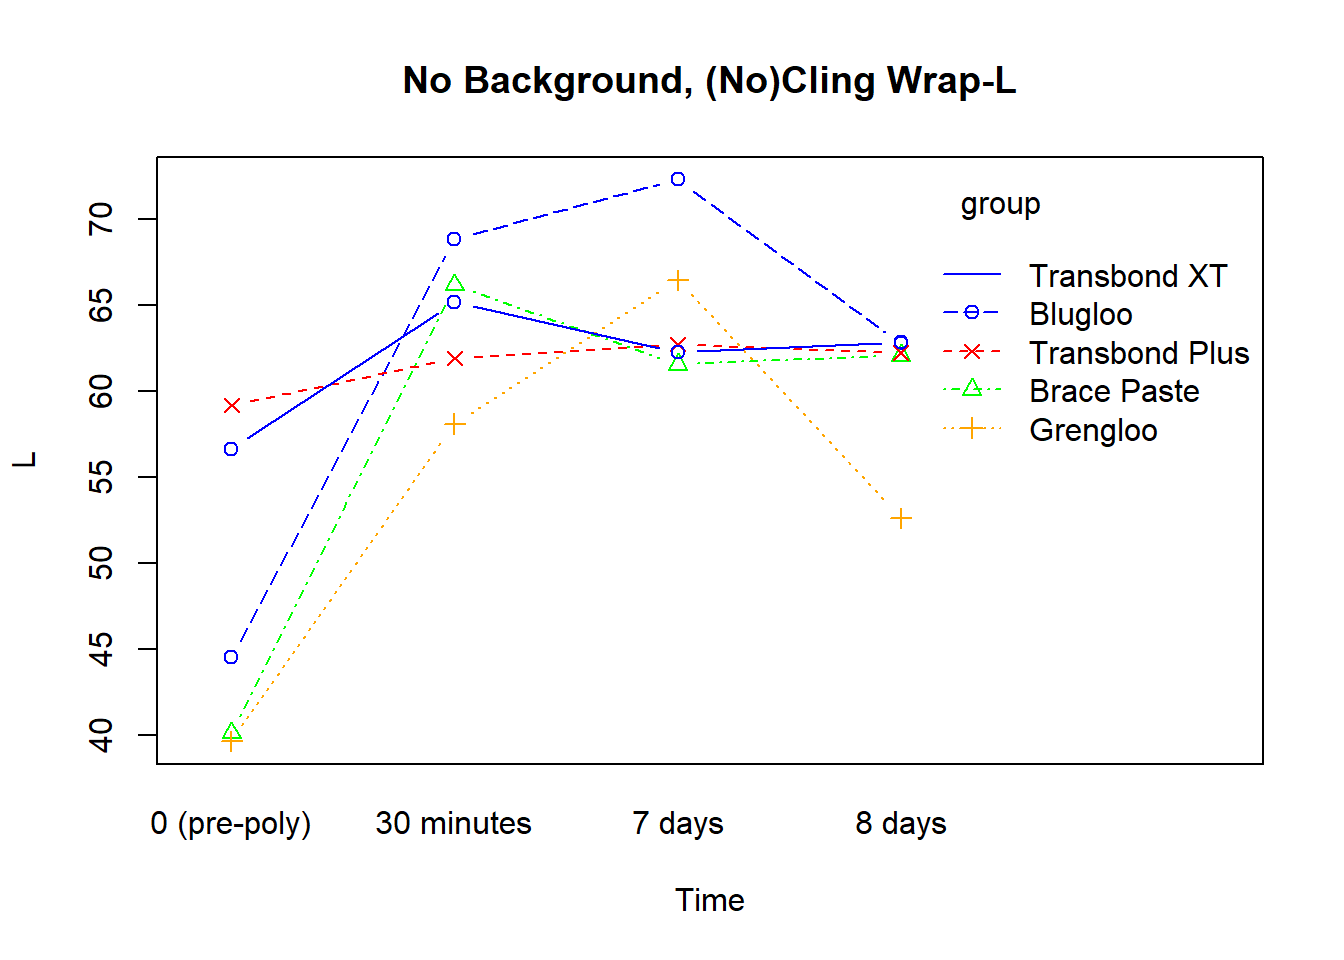
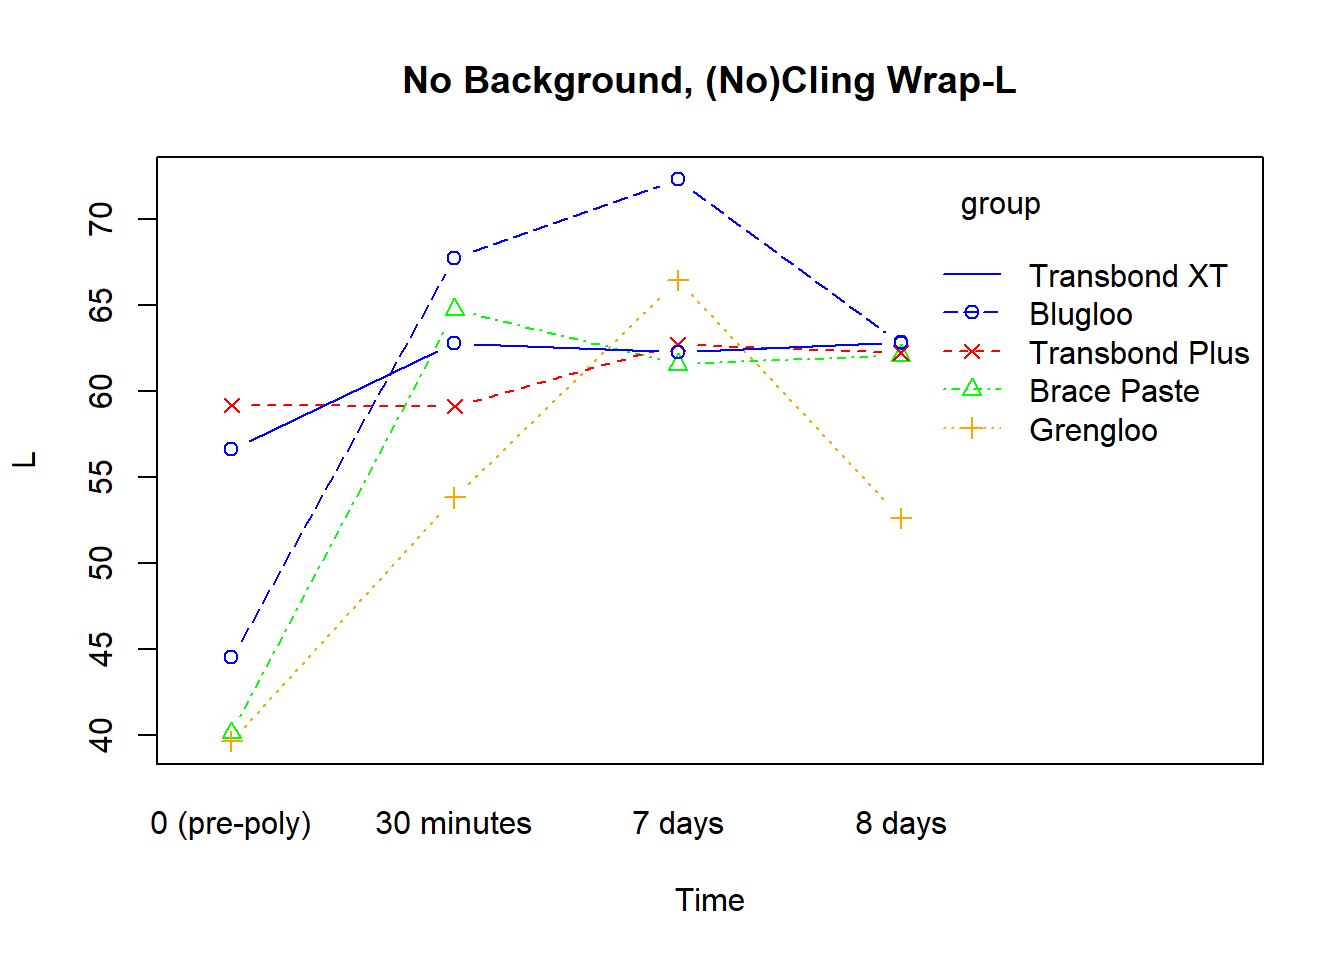
5/3/2022

diff --git a/docs/2022_Apr2.html b/docs/2022_Apr2.html
@@ -472,16 +472,16 @@ This reproducible <a href="https://rmarkdown.rstudio.com">R Markdown</a> analysi
 <div class="panel panel-default">
 <div class="panel-heading">
 <p class="panel-title">
-<a data-toggle="collapse" data-parent="#workflowr-checks" href="#strongRepositoryversionstrongahrefhttpsgithubcomhan16Collaborationstree8d103ce08cca9e85d16442d0a961b673593beb46targetblank8d103cea"> <span class="glyphicon glyphicon-ok text-success" aria-hidden="true"></span> <strong>Repository version:</strong> <a href="https://github.com/han16/Collaborations/tree/8d103ce08cca9e85d16442d0a961b673593beb46" target="_blank">8d103ce</a> </a>
+<a data-toggle="collapse" data-parent="#workflowr-checks" href="#strongRepositoryversionstrongahrefhttpsgithubcomhan16Collaborationstree066fdbccde1f22a7cdff719d2c0910a405546a72targetblank066fdbca"> <span class="glyphicon glyphicon-ok text-success" aria-hidden="true"></span> <strong>Repository version:</strong> <a href="https://github.com/han16/Collaborations/tree/066fdbccde1f22a7cdff719d2c0910a405546a72" target="_blank">066fdbc</a> </a>
 </p>
 </div>
[2 lines of base64/hex data omitted]
 <div class="panel-body">
 <p>
 Great! You are using Git for version control. Tracking code development and connecting the code version to the results is critical for reproducibility.
 </p>
 <p>
-The results in this page were generated with repository version <a href="https://github.com/han16/Collaborations/tree/8d103ce08cca9e85d16442d0a961b673593beb46" target="_blank">8d103ce</a>. See the <em>Past versions</em> tab to see a history of the changes made to the R Markdown and HTML files.
+The results in this page were generated with repository version <a href="https://github.com/han16/Collaborations/tree/066fdbccde1f22a7cdff719d2c0910a405546a72" target="_blank">066fdbc</a>. See the <em>Past versions</em> tab to see a history of the changes made to the R Markdown and HTML files.
 </p>
 <p>
 Note that you need to be careful to ensure that all relevant files for the analysis have been committed to Git prior to generating the results (you can use <code>wflow_publish</code> or <code>wflow_git_commit</code>). workflowr only checks the R Markdown file, but you know if there are other scripts or data files that it depends on. Below is the status of the Git repository when the results were generated:
@@ -530,6 +530,40 @@ Message
 </tr>
 </thead>
 <tbody>
+<tr>
+<td>
+Rmd
+</td>
+<td>
+<a href="https://github.com/han16/Collaborations/blob/066fdbccde1f22a7cdff719d2c0910a405546a72/analysis/2022_Apr2.Rmd" target="_blank">066fdbc</a>
+</td>
+<td>
+Han
+</td>
+<td>
+2022-05-03
+</td>
+<td>
+5/3/2022
+</td>
+</tr>
+<tr>
+<td>
+html
+</td>
+<td>
+<a href="https://rawcdn.githack.com/han16/Collaborations/066fdbccde1f22a7cdff719d2c0910a405546a72/docs/2022_Apr2.html" target="_blank">066fdbc</a>
+</td>
+<td>
+Han
+</td>
+<td>
+2022-05-03
+</td>
+<td>
+5/3/2022
+</td>
+</tr>
 <tr>
 <td>
 Rmd
@@ -747,131 +781,15 @@ Han
 <div id="no-background-nocling-wrap-l" class="section level3">
 <h3>No Background, (No)Cling Wrap-L</h3>
 <p><img src="figure/2022_Apr2.Rmd/unnamed-chunk-4-1.png" width="672" style="display: block; margin: auto;" /></p>
-<pre><code>Generalized least squares fit by REML
-  Model: y ~ time * group 
-  Data: Research_Measurements_L 
-     AIC      BIC   logLik
-  693.31 760.3621 -325.655
-
-Coefficients:
-                                     Value Std.Error   t-value p-value
-(Intercept)                         44.526 0.4110838 108.31367  0.0000
-time30 minutes                      24.325 0.5813603  41.84152  0.0000
-time7 days                          27.778 0.5813603  47.78104  0.0000
-time8 days                          18.273 0.5813603  31.43145  0.0000
-groupBrace Paste                    -4.371 0.5813603  -7.51857  0.0000
-groupGrengloo                       -4.864 0.5813603  -8.36658  0.0000
-groupTransbond Plus                 14.687 0.5813603  25.26316  0.0000
-groupTransbond XT                   12.120 0.5813603  20.84766  0.0000
-time30 minutes:groupBrace Paste      1.699 0.8221677   2.06649  0.0402
-time7 days:groupBrace Paste         -6.351 0.8221677  -7.72470  0.0000
-time8 days:groupBrace Paste          3.648 0.8221677   4.43705  0.0000
-time30 minutes:groupGrengloo        -5.870 0.8221677  -7.13966  0.0000
-time7 days:groupGrengloo            -0.971 0.8221677  -1.18102  0.2392
-time8 days:groupGrengloo            -5.308 0.8221677  -6.45610  0.0000
-time30 minutes:groupTransbond Plus -21.600 0.8221677 -26.27201  0.0000
-time7 days:groupTransbond Plus     -24.244 0.8221677 -29.48790  0.0000
-time8 days:groupTransbond Plus     -15.247 0.8221677 -18.54488  0.0000
-time30 minutes:groupTransbond XT   -15.805 0.8221677 -19.22357  0.0000
-time7 days:groupTransbond XT       -22.154 0.8221677 -26.94584  0.0000
-time8 days:groupTransbond XT       -12.074 0.8221677 -14.68557  0.0000
-
- Correlation: 
-                                   (Intr) tm30mn tm7dys tm8dys grpBrP grpGrn
-time30 minutes                     -0.707                                   
-time7 days                         -0.707  0.500                            
-time8 days                         -0.707  0.500  0.500                     
-groupBrace Paste                   -0.707  0.500  0.500  0.500              
-groupGrengloo                      -0.707  0.500  0.500  0.500  0.500       
-groupTransbond Plus                -0.707  0.500  0.500  0.500  0.500  0.500
-groupTransbond XT                  -0.707  0.500  0.500  0.500  0.500  0.500
-time30 minutes:groupBrace Paste     0.500 -0.707 -0.354 -0.354 -0.707 -0.354
-time7 days:groupBrace Paste         0.500 -0.354 -0.707 -0.354 -0.707 -0.354
-time8 days:groupBrace Paste         0.500 -0.354 -0.354 -0.707 -0.707 -0.354
-time30 minutes:groupGrengloo        0.500 -0.707 -0.354 -0.354 -0.354 -0.707
-time7 days:groupGrengloo            0.500 -0.354 -0.707 -0.354 -0.354 -0.707
-time8 days:groupGrengloo            0.500 -0.354 -0.354 -0.707 -0.354 -0.707
-time30 minutes:groupTransbond Plus  0.500 -0.707 -0.354 -0.354 -0.354 -0.354
-time7 days:groupTransbond Plus      0.500 -0.354 -0.707 -0.354 -0.354 -0.354
-time8 days:groupTransbond Plus      0.500 -0.354 -0.354 -0.707 -0.354 -0.354
-time30 minutes:groupTransbond XT    0.500 -0.707 -0.354 -0.354 -0.354 -0.354
-time7 days:groupTransbond XT        0.500 -0.354 -0.707 -0.354 -0.354 -0.354
-time8 days:groupTransbond XT        0.500 -0.354 -0.354 -0.707 -0.354 -0.354
-                                   grpTrP grpTXT t30m:BP t7d:BP t8d:BP t30m:G
-time30 minutes                                                               
-time7 days                                                                   
-time8 days                                                                   
-groupBrace Paste                                                             
-groupGrengloo                                                                
-groupTransbond Plus                                                          
-groupTransbond XT                   0.500                                    
-time30 minutes:groupBrace Paste    -0.354 -0.354                             
-time7 days:groupBrace Paste        -0.354 -0.354  0.500                      
-time8 days:groupBrace Paste        -0.354 -0.354  0.500   0.500              
-time30 minutes:groupGrengloo       -0.354 -0.354  0.500   0.250  0.250       
-time7 days:groupGrengloo           -0.354 -0.354  0.250   0.500  0.250  0.500
-time8 days:groupGrengloo           -0.354 -0.354  0.250   0.250  0.500  0.500
-time30 minutes:groupTransbond Plus -0.707 -0.354  0.500   0.250  0.250  0.500
-time7 days:groupTransbond Plus     -0.707 -0.354  0.250   0.500  0.250  0.250
-time8 days:groupTransbond Plus     -0.707 -0.354  0.250   0.250  0.500  0.250
-time30 minutes:groupTransbond XT   -0.354 -0.707  0.500   0.250  0.250  0.500
-time7 days:groupTransbond XT       -0.354 -0.707  0.250   0.500  0.250  0.250
-time8 days:groupTransbond XT       -0.354 -0.707  0.250   0.250  0.500  0.250
-                                   tm7d:G tm8d:G t30m:TP t7d:TP t8d:TP t30m:X
-time30 minutes                                                               
-time7 days                                                                   
-time8 days                                                                   
-groupBrace Paste                                                             
-groupGrengloo                                                                
-groupTransbond Plus                                                          
-groupTransbond XT                                                            
-time30 minutes:groupBrace Paste                                              
-time7 days:groupBrace Paste                                                  
-time8 days:groupBrace Paste                                                  
-time30 minutes:groupGrengloo                                                 
-time7 days:groupGrengloo                                                     
-time8 days:groupGrengloo            0.500                                    
-time30 minutes:groupTransbond Plus  0.250  0.250                             
-time7 days:groupTransbond Plus      0.500  0.250  0.500                      
-time8 days:groupTransbond Plus      0.250  0.500  0.500   0.500              
-time30 minutes:groupTransbond XT    0.250  0.250  0.500   0.250  0.250       
-time7 days:groupTransbond XT        0.500  0.250  0.250   0.500  0.250  0.500
-time8 days:groupTransbond XT        0.250  0.500  0.250   0.250  0.500  0.500
-                                   t7d:TX
-time30 minutes                           
-time7 days                               
-time8 days                               
-groupBrace Paste                         
-groupGrengloo                            
-groupTransbond Plus                      
-groupTransbond XT                        
-time30 minutes:groupBrace Paste          
-time7 days:groupBrace Paste              
-time8 days:groupBrace Paste              
-time30 minutes:groupGrengloo             
-time7 days:groupGrengloo                 
-time8 days:groupGrengloo                 
-time30 minutes:groupTransbond Plus       
-time7 days:groupTransbond Plus           
-time8 days:groupTransbond Plus           
-time30 minutes:groupTransbond XT         
-time7 days:groupTransbond XT             
-time8 days:groupTransbond XT        0.500
-
-Standardized residuals:
-        Min          Q1         Med          Q3         Max 
--3.18932581 -0.41135841  0.03230866  0.44232087  3.19547984 
-
-Residual standard error: 1.299961 
-Degrees of freedom: 200 total; 180 residual</code></pre>
 <pre><code>Denom. DF: 180 
             numDF  F-value p-value
-(Intercept)     1 417871.3  &lt;.0001
-time            3   1815.8  &lt;.0001
-group           4    283.2  &lt;.0001
-time:group     12    186.7  &lt;.0001</code></pre>
+(Intercept)     1 392513.1  &lt;.0001
+time            3   1571.3  &lt;.0001
+group           4    304.2  &lt;.0001
+time:group     12    190.4  &lt;.0001</code></pre>
 <ul>
-<li>small p value for <code>time:group</code> suggests the change pattern after 0 (pre-poly) are different across material groups.</li>
+<li><p>small p value for <code>time:group</code> suggests the change pattern after 0 (pre-poly) are different across material groups.</p></li>
+<li><p>four conditions are <code>Pre-Polymerization-No Background, Cling Wrap-L</code>, <code>30 Minutes Post-Polymerization-No Background, No Cling Wrap-L</code>, <code>7 Days Post-Polymerization-No Background, No Cling Wrap-L</code>, <code>8 Days Post-Polymerization-No Background, No Cling Wrap-L</code>, so in addition to time difference, Cling warp is also different as only <code>Cling wrap</code> happens at Pre-Polymerization.</p></li>
 </ul>
 </div>
 <div id="no-background-nocling-wrap-a" class="section level3">
@@ -879,20 +797,20 @@ time:group     12    186.7  &lt;.0001</code></pre>
 <p><img src="figure/2022_Apr2.Rmd/unnamed-chunk-5-1.png" width="672" style="display: block; margin: auto;" /></p>
 <pre><code>Denom. DF: 180 
             numDF   F-value p-value
-(Intercept)     1  1281.535  &lt;.0001
-time            3  6984.381  &lt;.0001
-group           4 19590.835  &lt;.0001
-time:group     12  5618.415  &lt;.0001</code></pre>
+(Intercept)     1  2167.724  &lt;.0001
+time            3  7735.818  &lt;.0001
+group           4 20832.936  &lt;.0001
+time:group     12  5370.746  &lt;.0001</code></pre>
 </div>
 <div id="no-background-nocling-wrap-b" class="section level3">
 <h3>No Background, (No)Cling Wrap-b</h3>
 <p><img src="figure/2022_Apr2.Rmd/unnamed-chunk-6-1.png" width="672" style="display: block; margin: auto;" /></p>
 <pre><code>Denom. DF: 180 
             numDF   F-value p-value
-(Intercept)     1  476.8104  &lt;.0001
-time            3  731.3372  &lt;.0001
-group           4 2993.6563  &lt;.0001
-time:group     12  369.7577  &lt;.0001</code></pre>
+(Intercept)     1  518.8021  &lt;.0001
+time            3  627.0366  &lt;.0001
+group           4 2954.5345  &lt;.0001
+time:group     12  325.3123  &lt;.0001</code></pre>
 </div>
 </div>
 <div id="statistical-software" class="section level2">
